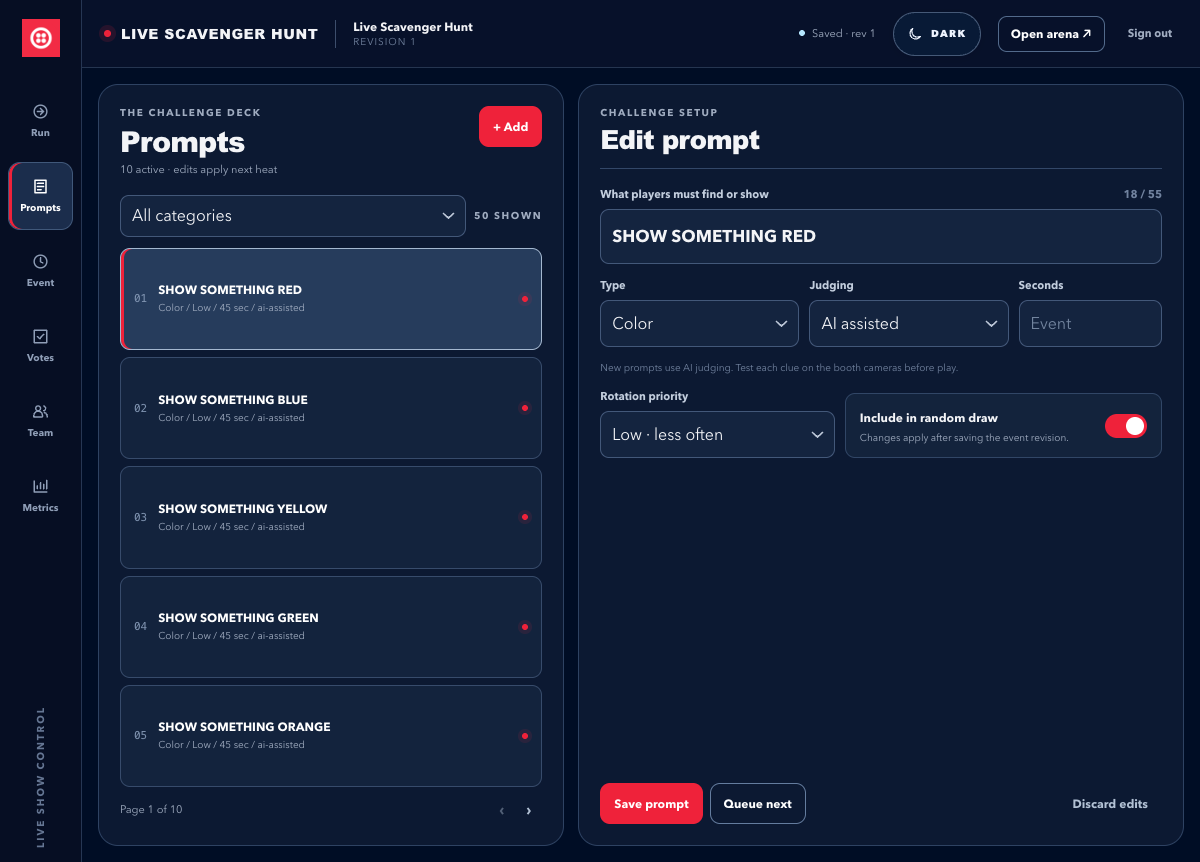
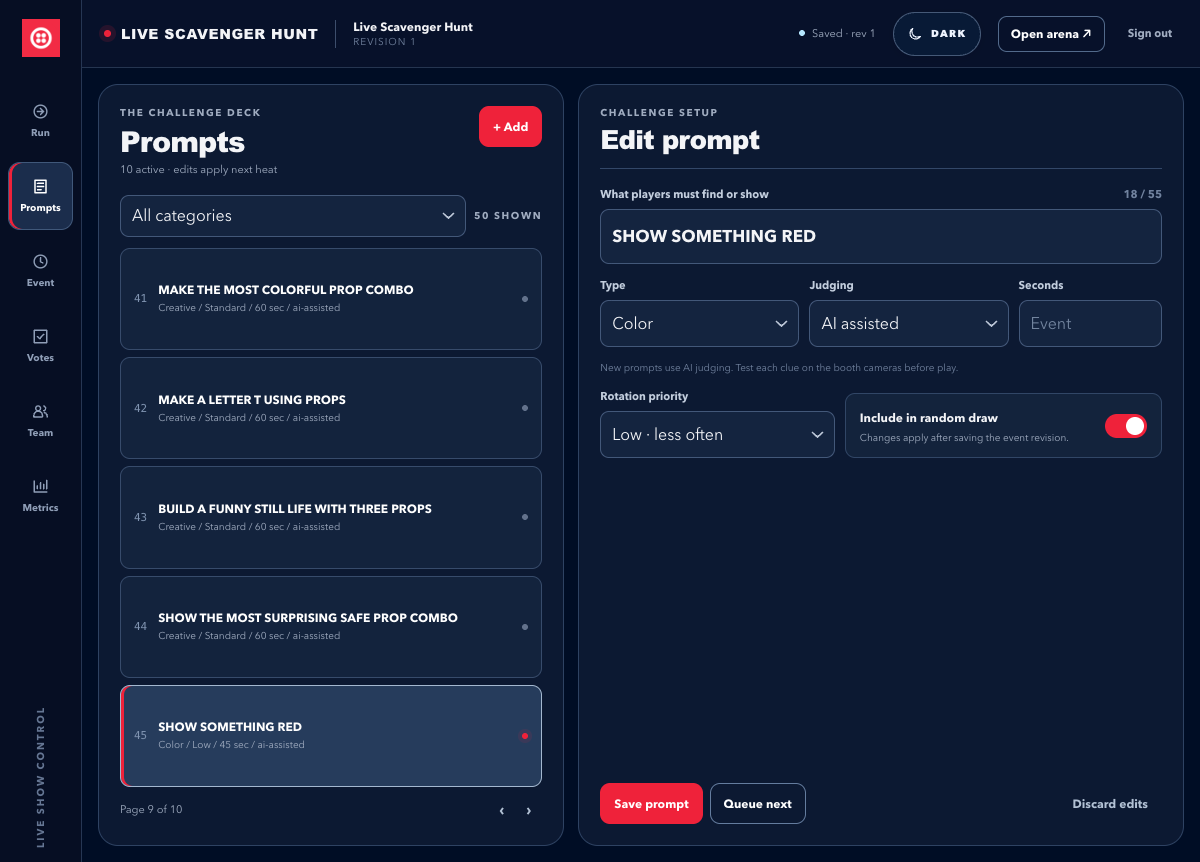
Show operator prompts by rotation priority

diff --git a/app/public/operator.js b/app/public/operator.js
@@ -159,7 +159,7 @@ function setCommitted(event) {
   eventDirty = false;
   promptDirty = false;
   conflict = false;
-  selectedPromptId = draft.prompts.some((item) => item.id === selectedPromptId) ? selectedPromptId : draft.prompts[0]?.id || null;
+  selectedPromptId = draft.prompts.some((item) => item.id === selectedPromptId) ? selectedPromptId : promptDisplayOrder(draft.prompts)[0]?.id || null;
   promptBuffer = activePrompt() ? clone(activePrompt()) : null;
   promptPriorityAuto = promptBuffer?.priority == null;
   $("reload-event-button").hidden = true;
@@ -747,7 +747,7 @@ function validateEvent() {
 async function saveEvent(includePrompt = true) {
   if (!isAdmin()) return flash("Admin access is required to change event settings.", true), false;
   if (conflict || saving) return flash("Reload the latest revision before saving.", true), false;
-  if (includePrompt && promptDirty && !commitPromptBuffer()) return false;
+  if (includePrompt && promptDirty && !commitPromptBuffer(true)) return false;
   syncEventForm();
   const error = validateEvent();
   if (error) {
@@ -781,9 +781,22 @@ function promptPageSize() {
   if (innerHeight <= 700) return 4;
   return 5;
 }
+function promptDisplayOrder(prompts) {
+  const standard = [];
+  const low = [];
+  for (const prompt of prompts) {
+    ((prompt.priority || defaultPromptPriority(prompt)) === "low" ? low : standard).push(prompt);
+  }
+  return [...standard, ...low];
+}
 function filteredPrompts() {
   const filter = $("prompt-filter").value;
-  return filter === "all" ? draft.prompts : draft.prompts.filter((item) => item.category === filter);
+  const matching = filter === "all" ? draft.prompts : draft.prompts.filter((item) => item.category === filter);
+  return promptDisplayOrder(matching);
+}
+function revealPromptPage(id) {
+  const index = filteredPrompts().findIndex((prompt) => prompt.id === id);
+  if (index >= 0) promptPage = Math.floor(index / promptPageSize());
 }
 function renderPromptList() {
   if (!draft) return;
@@ -857,7 +870,7 @@ function renderPromptEditor() {
   }
   $("queue-editor-button").disabled = !prompt || !prompt.enabled;
 }
-function commitPromptBuffer() {
+function commitPromptBuffer(revealSelection = false) {
   if (!promptBuffer) return true;
   const text = String(promptBuffer.text || "").trim();
   if (!text || text.length > 55) return flash("A prompt needs 1–55 characters.", true), false;
@@ -883,12 +896,14 @@ function commitPromptBuffer() {
   promptDirty = false;
   promptPriorityAuto = false;
   markDirty();
+  if (revealSelection) revealPromptPage(selectedPromptId);
   renderPromptList();
   return true;
 }
 function selectPrompt(id) {
   if (promptDirty && !commitPromptBuffer()) return;
   selectedPromptId = id;
+  revealPromptPage(id);
   promptBuffer = activePrompt() ? clone(activePrompt()) : null;
   promptPriorityAuto = promptBuffer?.priority == null;
   promptDirty = false;
@@ -926,7 +941,8 @@ function onPromptInput(event) {
   $("prompt-hint").textContent = promptHint(promptBuffer);
 }
 function discardPromptBuffer() {
-  if (!activePrompt()) selectedPromptId = draft.prompts[0]?.id || null;
+  if (!activePrompt()) selectedPromptId = promptDisplayOrder(draft.prompts)[0]?.id || null;
+  revealPromptPage(selectedPromptId);
   promptBuffer = activePrompt() ? clone(activePrompt()) : null;
   promptPriorityAuto = promptBuffer?.priority == null;
   promptDirty = false;
@@ -938,7 +954,7 @@ function renderQueue() {
   const select = $("queue-select");
   const prior = select.value;
   select.replaceChildren();
-  for (const prompt of committed.prompts.filter((item) => item.enabled)) {
+  for (const prompt of promptDisplayOrder(committed.prompts.filter((item) => item.enabled))) {
     const option = document.createElement("option");
     option.value = prompt.id;
     option.textContent = prompt.text;

diff --git a/README.md b/README.md
@@ -45,11 +45,11 @@ When all configured player spots are occupied, or a heat has locked, a new visit
 
 The next clue is chosen randomly among the least-played enabled prompts in its priority tier, avoiding a repeat within that tier until its clues have caught up. It also avoids immediately repeating the last clue when another equally played choice exists. An operator can choose the next clue, and an audience category vote can narrow the draw. The standard hunt now lasts **45 seconds**, with **60 seconds** for seeded creative clues; admins can change the event timer or a prompt's timer. The one-time upgrade applies these defaults only to untouched legacy events; customized timers stay saved. Everyone races to show the requested color, object, shape, printed tech word, or creative find. Seeded and newly added prompts default to AI-assisted judging. The upgrade switches prompts in untouched legacy events to AI-assisted judging; events already edited by an admin keep their saved judging choices. An admin can instead choose the built-in color detector, an audience vote, or booth-operator judgment. The operator can award one winner, several winners in a tie, or no match. The result lands on the arena **and** each player's phone.
 
-Admins set each clue to **Standard** or **Low** rotation priority in the prompt editor. Simple color-only clues default to Low. When any Standard clues are enabled, automatic rotation holds Low until every enabled Standard clue has appeared, then allows a Low clue at most once in five automatically selected rounds. An all-Low deck can draw a Low clue every round. It draws among the least-played clues in the chosen priority tier. Automatic category ballots run after every other completed heat, with a regular draw between ballots so all enabled categories can progress. Ballots honor the priority cadence; an operator can override it by manually selecting a category or queuing a clue.
+Admins set each clue to **Standard** or **Low** rotation priority under **Operator → Prompts**. Simple color-only clues default to Low. The operator prompt deck and manual queue menu display Standard clues first and Low clues afterward, keeping each group's saved order. After **Save prompt**, the deck follows the edited clue to its new page. This display order does not change saved prompts or decide the next round. When any Standard clues are enabled, automatic rotation holds Low until every enabled Standard clue has appeared, then allows a Low clue at most once in five automatically selected rounds. An all-Low deck can draw a Low clue every round. It draws among the least-played clues in the chosen priority tier. Automatic category ballots run after every other completed heat, with a regular draw between ballots so all enabled categories can progress. Ballots honor the priority cadence; an operator can override it by manually selecting a category or queuing a clue.
 
-<p align="center"><img src="docs/visuals/live-scavenger-hunt-operator-prompt-priority.png" alt="Local operator visual preview editing a simple color prompt with Low rotation priority" width="880"></p>
+<p align="center"><img src="docs/visuals/live-scavenger-hunt-operator-prompt-priority.png" alt="Local operator preview showing Standard prompts above a Low color clue and its Rotation priority control" width="880"></p>
 
-<p align="center"><em>Local operator preview of the saved prompt-priority control.</em></p>
+<p align="center"><em>Local operator preview with Standard prompts ahead of Low color prompts and the saved priority control.</em></p>
 
 Spectators can take part through a web ballot without providing player details. With configured senders, SMS or WhatsApp ballots can steer the next challenge category or vote on a creative round. After playing, visitors can follow a visual phone-to-arena product story, open official Twilio pages for each featured product, and **star the source on GitHub** as the default main action. An admin can make the build guide or Twilio expert the main action instead. Players and web spectators can voluntarily request a guide or conversation through the configured contact form; those requests do not subscribe visitors to product updates. A small **Star on GitHub** card sits beside the arena's larger play or vote QR; booth-sized displays show a second QR in the card. The repo link also stays in the attendee phone footer throughout the journey and appears on the spectator ballot.
 

diff --git a/docs/runbook.md b/docs/runbook.md
@@ -63,7 +63,7 @@ An admin creates an event in the control room. Each event has an immutable slug 
 
 For Flexible and After wait, the configured `joinSeconds` timer begins when the **minimum number of players is ready**, not when the first player joins. For example, with 2–6 players and a 30-second window, the second ready player opens 30 more seconds for others to join. If ready players fall below the minimum, that timer clears and starts again when the minimum is met. Reaching the maximum in Flexible mode starts immediately. The arena shows the ready count without a misleading `/6` denominator; its ring fills at the minimum, and the subline states how many more are needed or how long the room remains open. An operator may start a heat once the configured minimum is ready, regardless of the automatic rule. The clue is selected and sealed when the roster locks. The countdown does **not** expose it to the public API or pages; it appears at GO. The selected prompt and game rules are snapshotted for that heat, so later edits apply to later heats. Reducing capacity during a lobby moves excess slots into the next-heat queue. A joining visitor after lock also waits in that queue. The operator can pause/resume, queue an approved prompt, accept or replace a referee proposal, award one or multiple winners, choose no match, and advance or reset a heat. Recent completed heats remain available for winner, tie, or no-match corrections.
 
-A queued operator choice takes priority; otherwise the server draws randomly among the least-played enabled prompts in the selected priority tier. This avoids repeating a clue in that tier until its peers have caught up. Automatic audience category ballots run after every other completed heat; the intervening heat uses a regular draw so categories outside the ballot can progress. A ballot offers categories eligible under the current priority cadence, and its winning category narrows the draw without bypassing that cadence. An operator can manually select a category or queue a clue to override it. When equally played alternatives exist, the draw avoids immediately repeating the last clue. An operator may intentionally queue a repeat.
+A queued operator choice takes priority; otherwise the server draws randomly among the least-played enabled prompts in the selected priority tier. This avoids repeating a clue in that tier until its peers have caught up. The operator prompt deck and manual queue menu display Standard prompts before Low prompts while preserving saved order within each group; this display order does not affect the server draw. To move a clue, change **Rotation priority** under **Operator → Prompts** and choose **Save prompt**; the deck follows it to its new page. Automatic audience category ballots run after every other completed heat; the intervening heat uses a regular draw so categories outside the ballot can progress. A ballot offers categories eligible under the current priority cadence, and its winning category narrows the draw without bypassing that cadence. An operator can manually select a category or queue a clue to override it. When equally played alternatives exist, the draw avoids immediately repeating the last clue. An operator may intentionally queue a repeat.
 
 If all configured slots are occupied, or the heat is already locked, a new player joins the event's waitlist without turning on a camera. Their phone shows their one-based place in line, the total waiting, and an estimate in heats based on the event's capacity; this is not a minute-level promise. The server orders the queue by join time and insertion order. If a lobby slot opens because someone leaves, is removed, or times out, or if an admin increases capacity, it immediately promotes the oldest queued player before accepting a newer arrival into that spot. The promoted phone asks the visitor to reconnect the camera. At the next heat, the oldest queued players fill up to the configured capacity; if auto-advance is off, an operator opens that heat. Other queued players remain in line. The phone needs to stay open and send heartbeats to hold a place.
 
